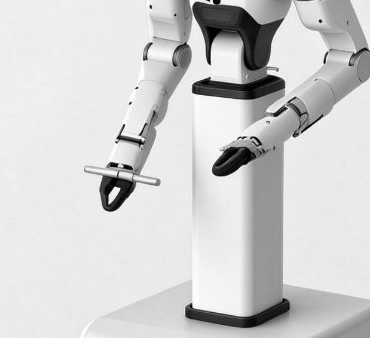
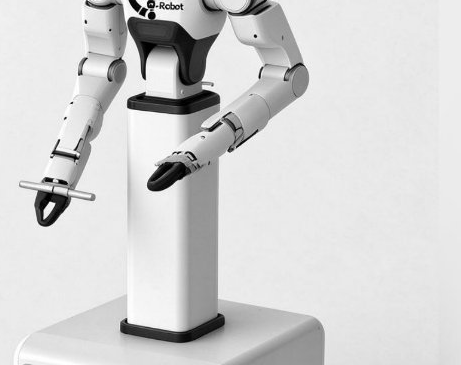
Resize OpenArm-HT-X1 images to fit gallery

diff --git a/js/data.js b/js/data.js
@@ -126,7 +126,7 @@ const PRODUCTS = [
     badgeType: "badge-hot",
     tagline: "7+1 DOF Dual Arm | 10 kg Peak Load | ±0.5 mm Repeatability | 2 m/s | NVIDIA Orin NX",
     description: "The OpenArm-HT-X1 is a wheeled dual-arm intelligent robot that seamlessly integrates a 7-DOF industrial-grade robotic arm with a differential-drive chassis for flexible mobile manipulation. Coordinated arm movement meets agile mobility in a compact 80 kg platform. Powered by an NVIDIA Orin NX 16GB computing platform, a ZED Mini depth camera, and an Ubuntu 22.04 + ROS2 software stack, it is built for research and teaching, embodied intelligence, flexible loading and unloading, dual-arm collaborative assembly, and robot customization.",
-    images: ["image/openarm-ht-x1-hero.png", "image/openarm-ht-x1.jpg"],
+    images: ["image/openarm-ht-x1-hero.png", "image/openarm-ht-x1-banner.png"],
     specs: [
       { label: "Degrees of Freedom", value: "7+1 per arm (single arm + end-effector); Neck 2, Waist 2" },
       { label: "Peak Load (Single Arm)", value: "10 kg" },

diff --git a/index.html b/index.html
@@ -536,7 +536,7 @@
 
     <script src="js/include.js?v=20260919"></script>
     <script src="js/mobile.js?v=20260922"></script>
-    <script src="js/data.js?v=20261016"></script>
+    <script src="js/data.js?v=20261016b"></script>
 
     <!-- ============ Carousel JS ============ -->
     <script src="js/hero-carousel.js?v=20260922"></script>

diff --git a/product.html b/product.html
@@ -136,7 +136,7 @@
 
     <script src="js/include.js?v=20260919"></script>
     <script src="js/mobile.js?v=20260922"></script>
-    <script src="js/data.js?v=20261016"></script>
+    <script src="js/data.js?v=20261016b"></script>
     <script src="js/product.js?v=20260914"></script>
   </body>
 </html>

diff --git a/store.html b/store.html
@@ -115,7 +115,7 @@
 
     <script src="js/include.js?v=20260919"></script>
     <script src="js/mobile.js?v=20260922"></script>
-    <script src="js/data.js?v=20261016"></script>
+    <script src="js/data.js?v=20261016b"></script>
     <script src="js/store.js?v=20260913"></script>
   </body>
 </html>
